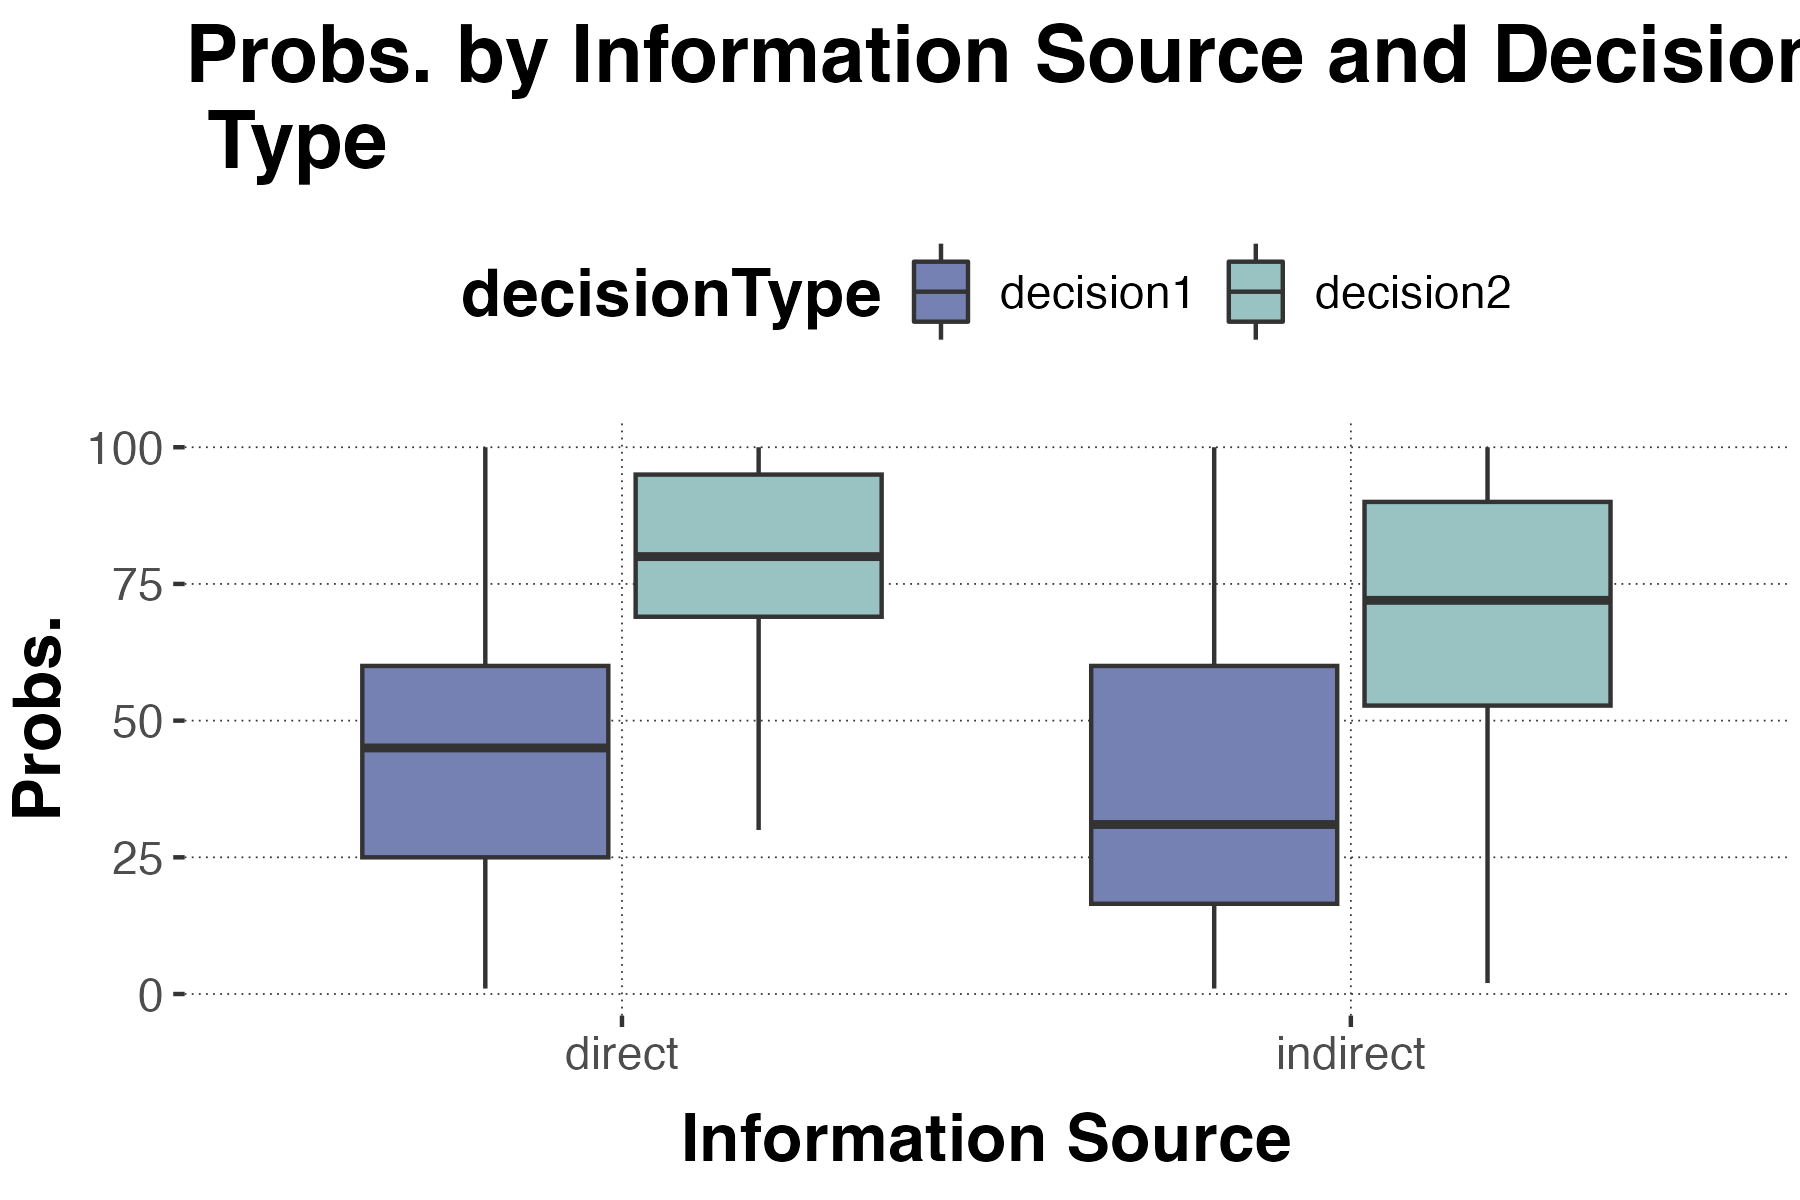
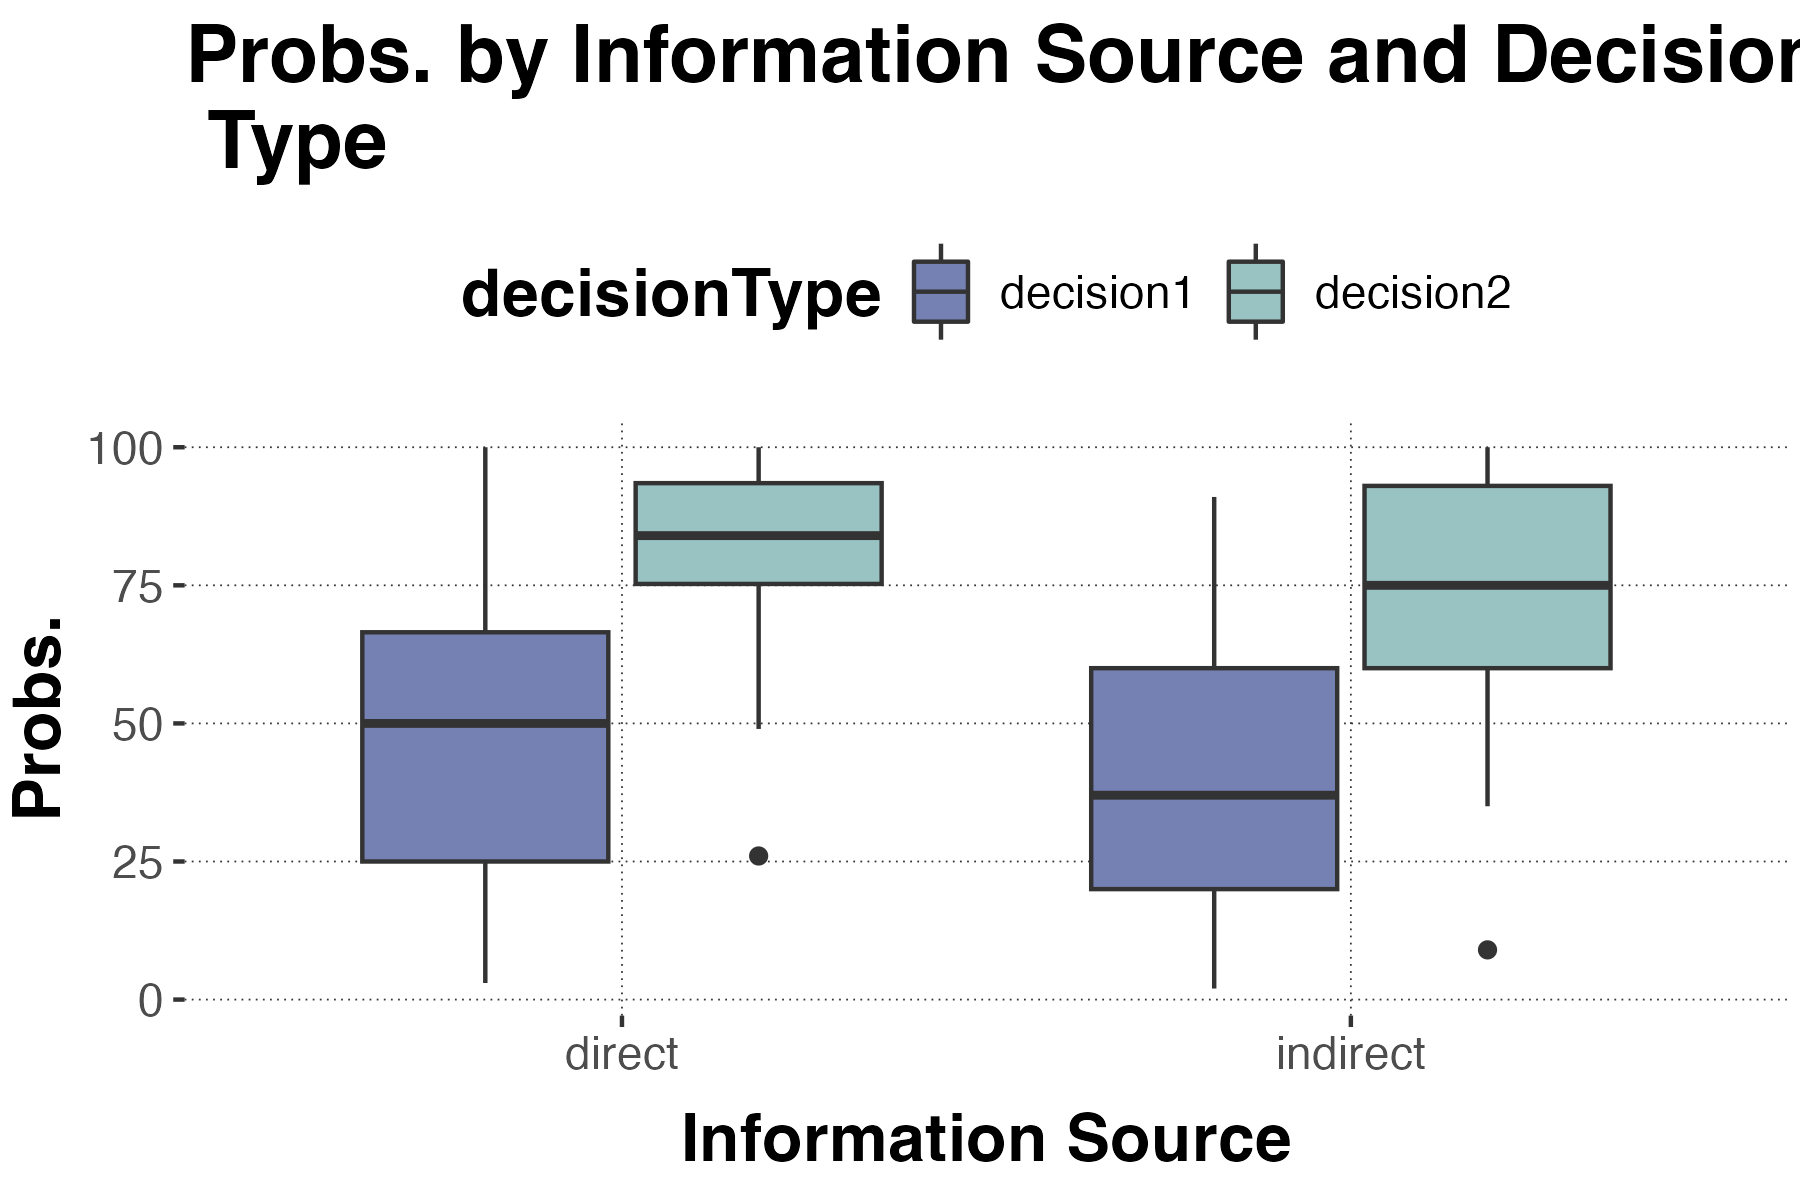
add initial analyis; add indirect result

diff --git a/experiments/stable-indirectSource-V2/src/App.vue b/experiments/stable-indirectSource-V2/src/App.vue
@@ -198,7 +198,7 @@
   <Screen :key="i" title="Your Final Decision">
          <!-- ************************************ -->
          <Slide>
-          Now that you have additional information {{ trial.F1_informationSource === "indirect" ? "indirectly" : "directly" }} from the
+          Now that you have additional information from the
           <strong> {{ trial.F1_informationSource === "indirect" ? "journal entry" : "report" }} from {{ trial.F2_scienceTeam === "Localization" ? "the Science Team for Localization" : "the Science Team for Cultivation" }}</strong> which stated that:
             <br><br>
             <strong>"A high volume of Xeliherb is associated with the presence of Ralocrop."</strong>
@@ -250,8 +250,8 @@ export default {
       // this is random
       //items: _.shuffle(items).slice(0, 1),
       //select the first element of items
-      //items: items.slice(1,2), // this is indirect
-      items: items.slice(0,1), // this is direct
+      items: items.slice(1,2), // this is indirect
+      //items: items.slice(0,1), // this is direct
       // select the second element of items
       // items: items[1],
     selectedTrial: null,
